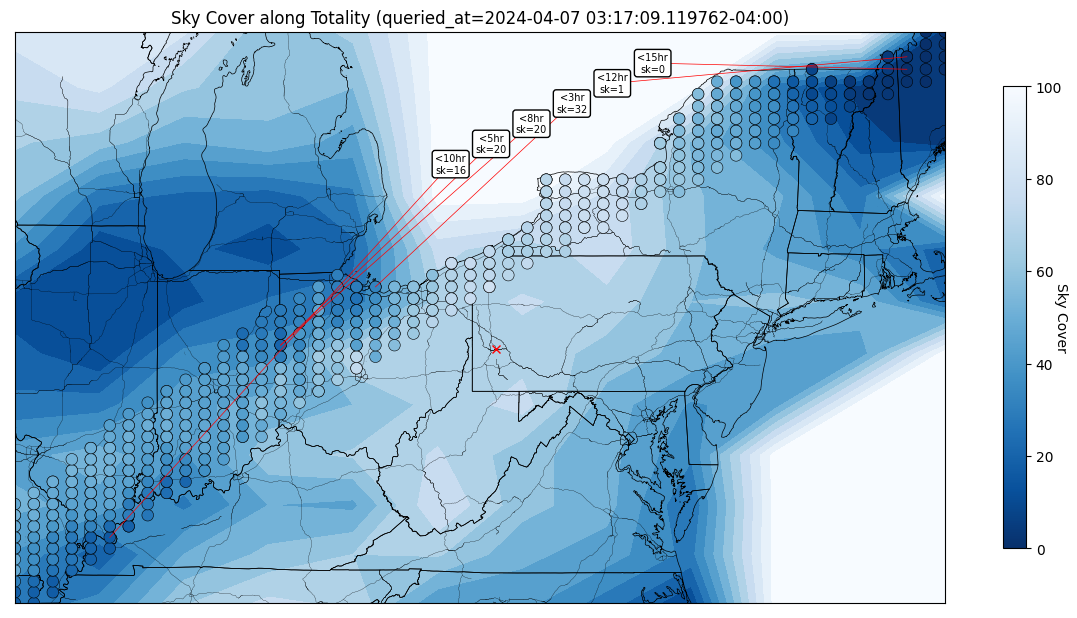
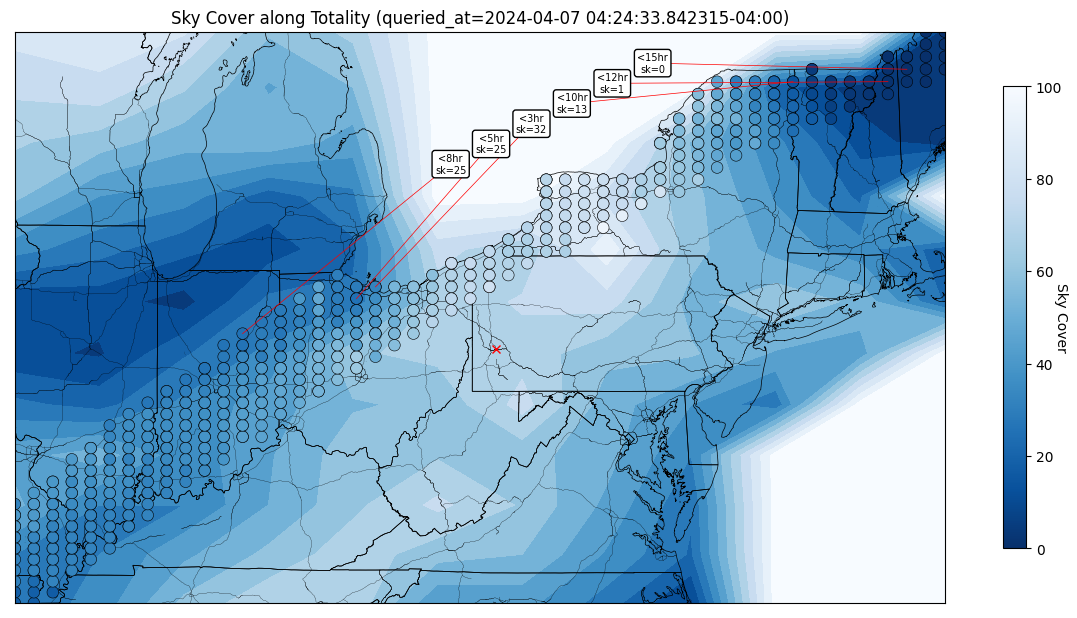
Automated map update

diff --git a/README.md b/README.md
@@ -2,9 +2,9 @@ The last sky cover plot generated:
 ![cover](cover.png)
 
 The best targets by hour:
- - Less than 10 hours: (37.17551, -88.58776) cover: 16
- - Less than 5 hours: (40.50612, -84.78571) cover: 20
- - Less than 8 hours: (40.50612, -84.78571) cover: 20
+ - Less than 8 hours: (40.70204, -85.63061) cover: 25
+ - Less than 5 hours: (41.28980, -83.09592) cover: 25
  - Less than 3 hours: (41.48571, -82.67347) cover: 32
- - Less than 12 hours: (45.20816, -70.84490) cover: 1
+ - Less than 10 hours: (44.81633, -73.37959) cover: 13
+ - Less than 12 hours: (44.81633, -71.26735) cover: 1
  - Less than 15 hours: (45.01224, -70.84490) cover: 0
